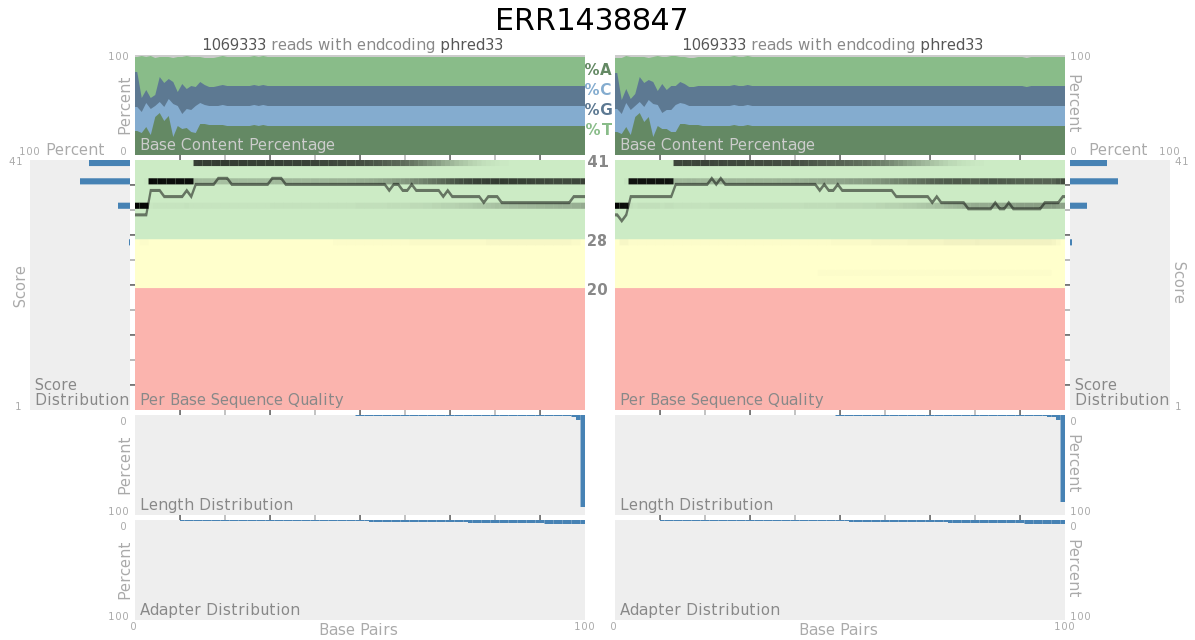
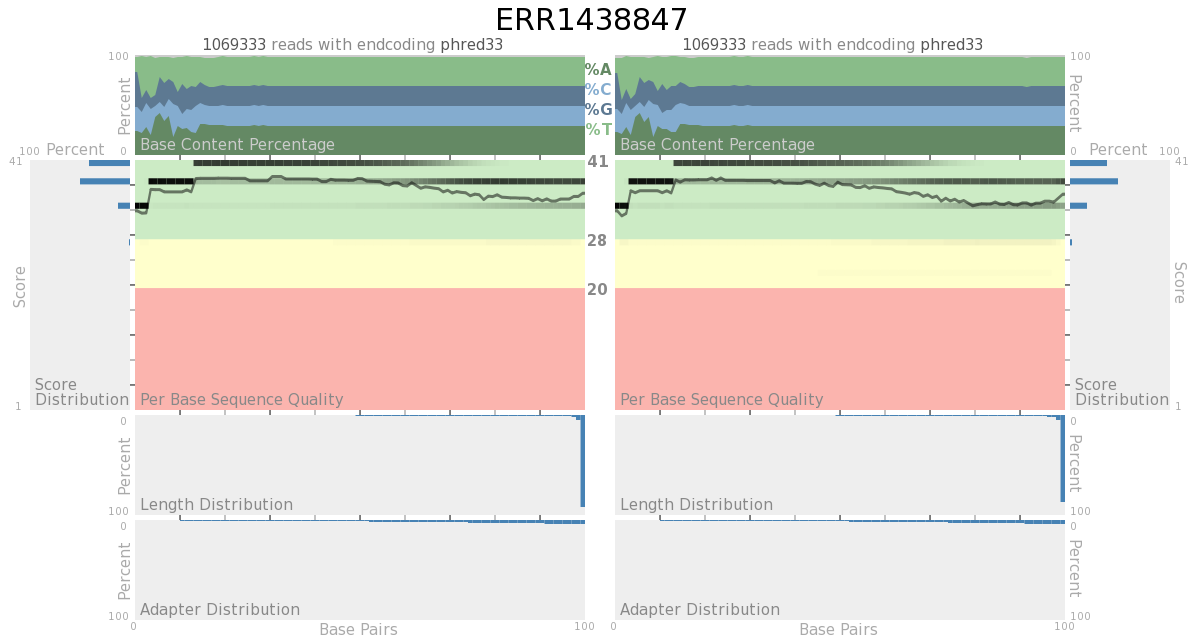
Convert averages to float

diff --git a/quack.c b/quack.c
@@ -300,7 +300,7 @@ void draw(sequence_data* data, int position, int adapters_used) {
   int max_score = 0;
   uint64_t number_of_bases = 0;
   uint64_t total_counts[91] = {0};
-  uint64_t averages[500] = {0};
+  float averages[500];
 
   // get encoding
   i = 0;
@@ -329,7 +329,7 @@ void draw(sequence_data* data, int position, int adapters_used) {
       sum = sum + j*data->bases[i].scores[j];
       number_of_bases++;
     }
-    averages[i] = sum/100;
+    averages[i] = sum/100.0;
   }
 
   if (max_score < 40) {
@@ -551,12 +551,19 @@ void draw(sequence_data* data, int position, int adapters_used) {
   score_back(28,        "#ffffcc"); // yellow
   score_back(20,        "#fbb4ae"); // red
 
-  //Allocate 10 characters per point.
-  size_t mean_line_points_length = 10*data->max_length;
+  /* Allocate 15 characters per point. 
+     4 = max length is capped in kb range, will start compressing if larger
+     2 = '.5' added to point
+     1 = ','
+     5 = '##.##' for float average
+     1 = ' '
+     2 = padding for miscalculation
+   */
+  size_t mean_line_points_length = 15*data->max_length;
   char * mean_line_points = malloc(mean_line_points_length);
 
   /* Make line start off graph */
-  snprintf(mean_line_points, mean_line_points_length, "0,%d ", averages[0]);
+  snprintf(mean_line_points, mean_line_points_length, "0,%0.2f ", averages[0]);
 
   for (x = 0; x < data->max_length; x++) {
     for (y = offset; y < max_score+offset; y++) {
@@ -573,22 +580,23 @@ void draw(sequence_data* data, int position, int adapters_used) {
                        );
     }
 
-    snprintf(tmp, 20, "%d.5,%lu ", x, averages[x]);
+    snprintf(tmp, 20, "%d.5,%0.2f ", x, averages[x]);
     strncat(mean_line_points, tmp, mean_line_points_length);
   }
 
   /* Make line end off graph */
-  snprintf(tmp, 20, "%d,%d ", data->max_length, averages[data->max_length-1]);
+  snprintf(tmp, 20, "%d,%0.2f", data->max_length, averages[data->max_length-1]);
   strncat(mean_line_points, tmp, mean_line_points_length);
 
   
   /* Print mean line */
-  svg_simple_tag("polyline", 5,
+  svg_simple_tag("polyline", 6,
                  svg_attr(points,      "%s", mean_line_points),
                  svg_attr(stroke, "%s", "black"),
                  svg_attr(stroke-width, "%f", 0.5),
                  svg_attr(stroke-opacity, "%f", 0.5),
-                 svg_attr(fill,   "%s", "none")
+                 svg_attr(fill,   "%s", "none"),
+                 svg_attr(stroke-linejoin, "%s", "round")
                  );
    
   free(mean_line_points);
